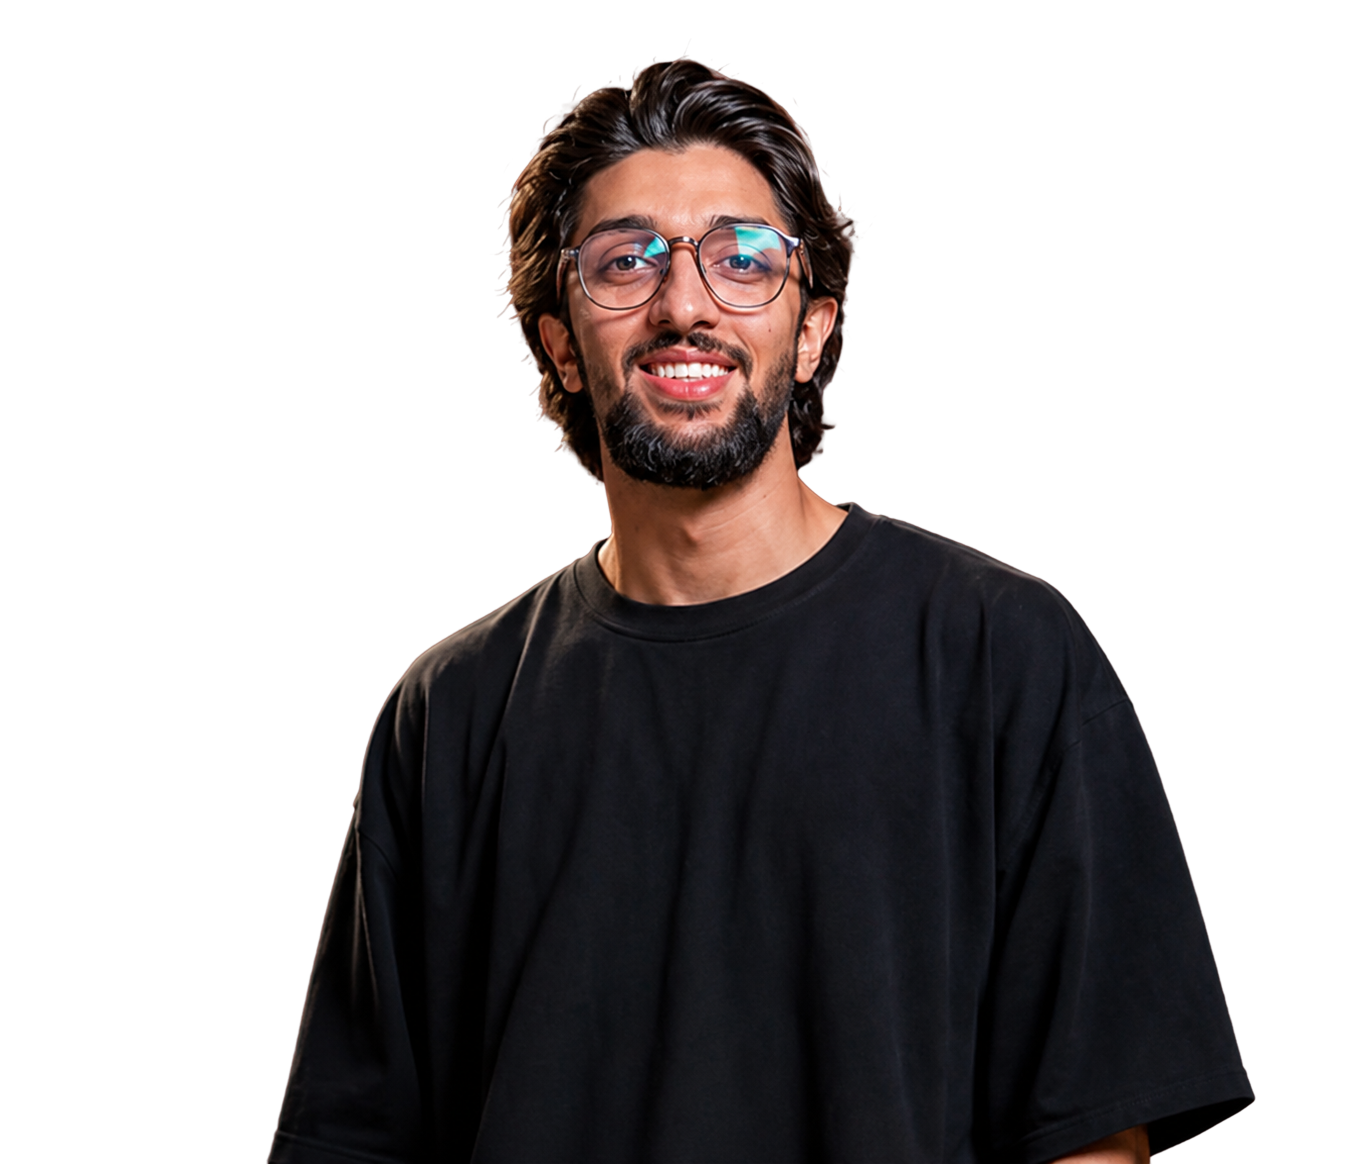
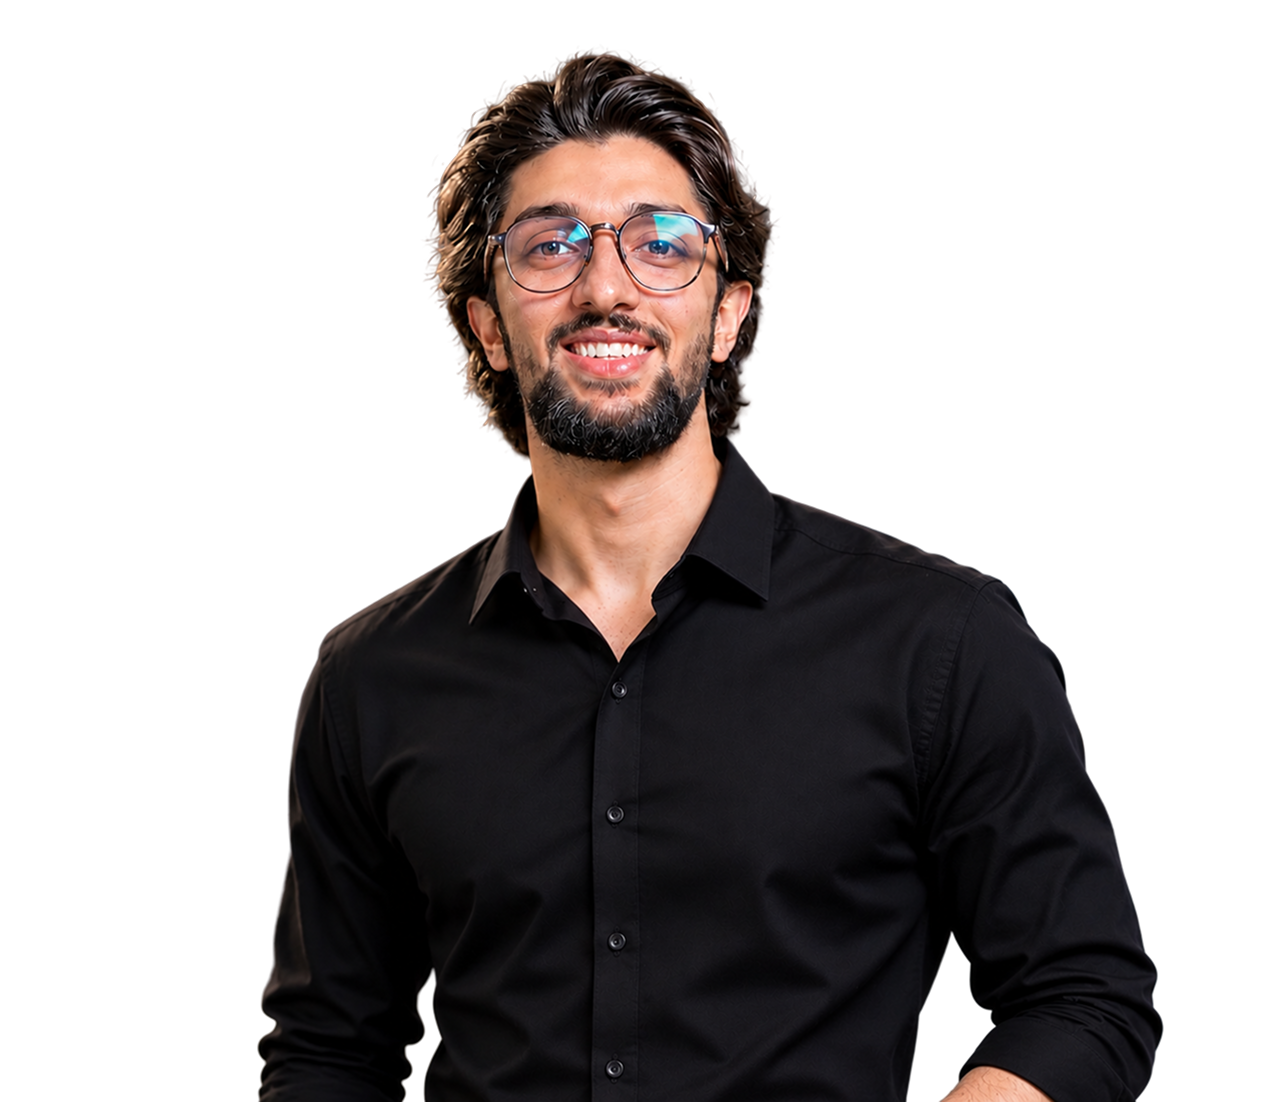
tftf

diff --git a/src/components/hero.jsx b/src/components/hero.jsx
@@ -317,7 +317,7 @@ export default function Hero() {
                       maskImage: `radial-gradient(circle 140px at ${spot.x}px ${spot.y}px, black 0%, transparent 100%)`,
                     }}
                   >
-                    <div style={{ ...nameStyle, fontWeight: 800, color: t.fill }}>
+                    <div style={{ ...nameStyle, color: t.fill, WebkitTextStroke: `1.5px ${t.fill}` }}>
                       <NameLines delay={D} style={{}} />
                     </div>
                   </div>
